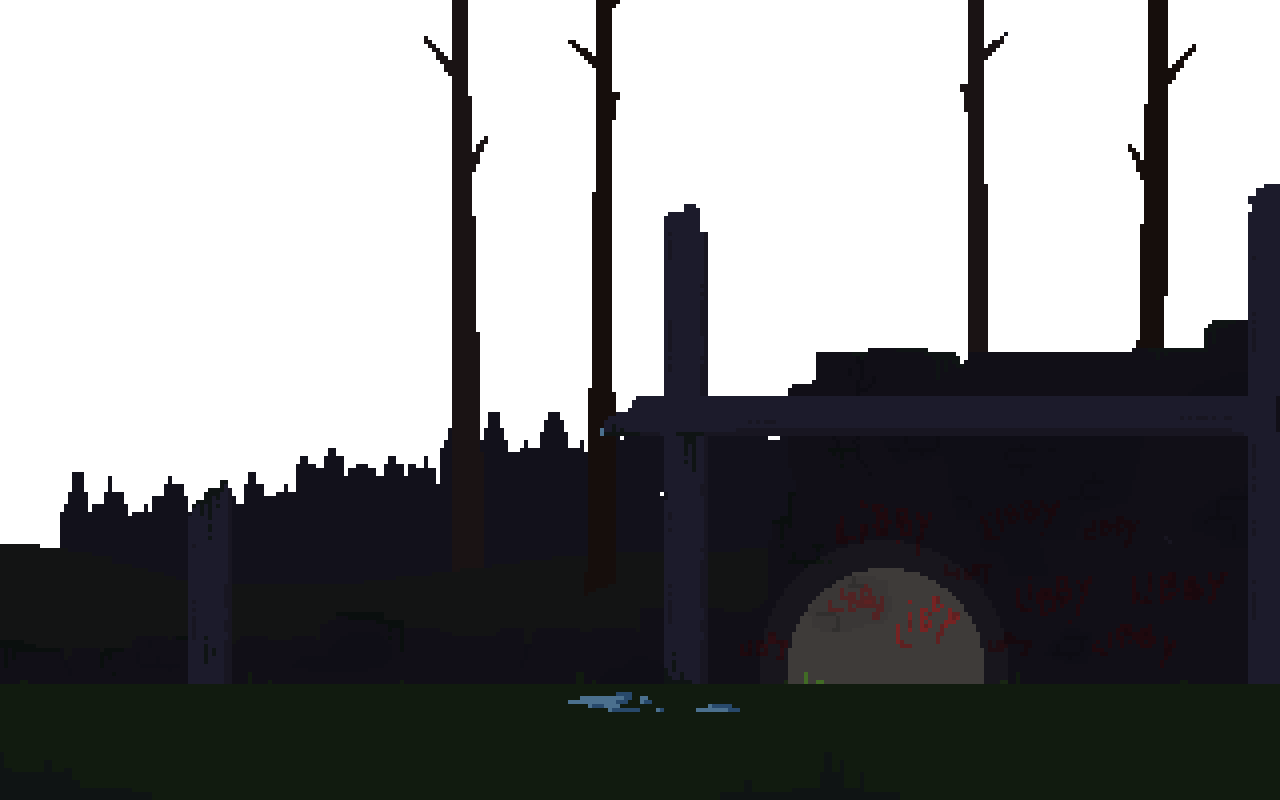
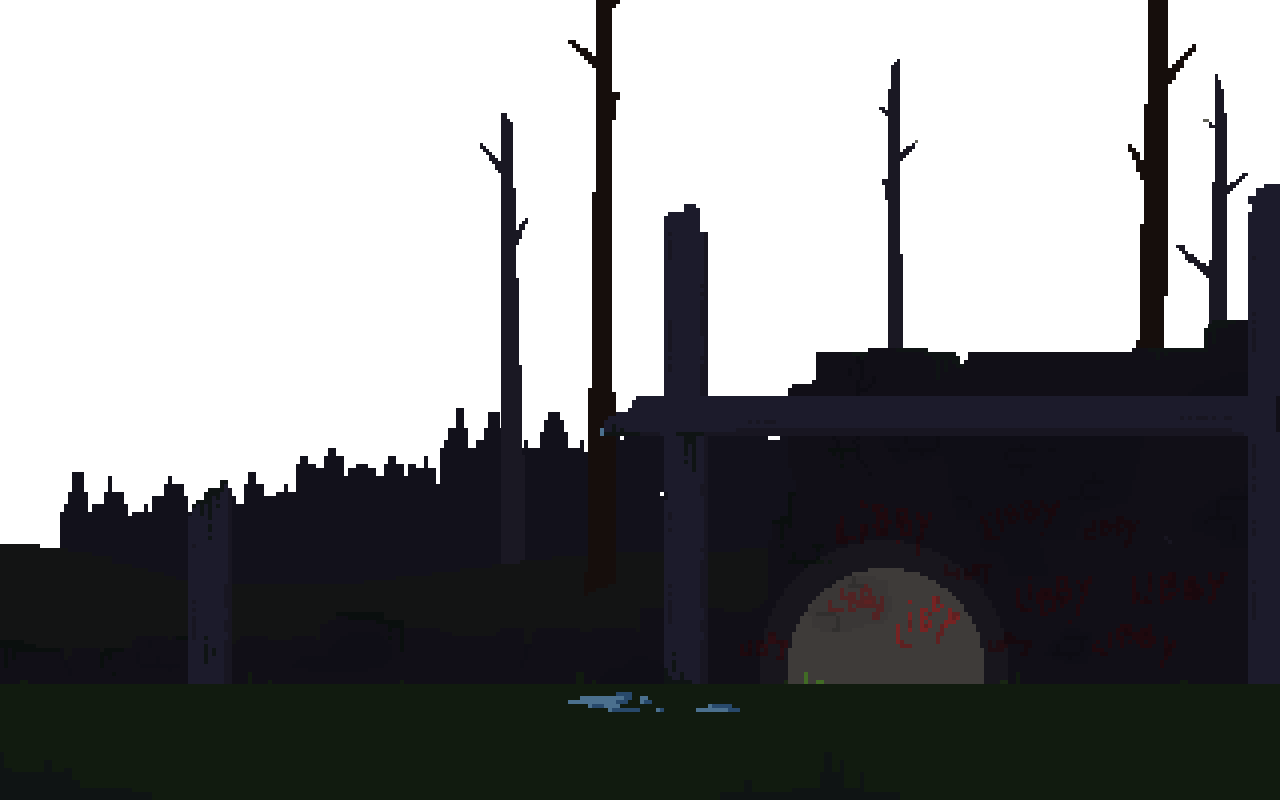
add parallax to building scene

diff --git a/src/phaser/scenes/BuildingScene.ts b/src/phaser/scenes/BuildingScene.ts
@@ -234,11 +234,15 @@ class BuildingScene extends BaseScene {
   private boxes: Boxes
   private metalBox: MetalBox
   private pit: Firepit
+  private trees: Phaser.GameObjects.TileSprite
+  private hills: Phaser.GameObjects.TileSprite
+  private grassForeground: Phaser.GameObjects.TileSprite
   private upstairsFloor: Physics.Arcade.Sprite
   private floor: Physics.Arcade.Sprite
   private platforms: Physics.Arcade.StaticGroup
   private antennasSprites: Physics.Arcade.Group
   private dropAnimation: Phaser.Tweens.Tween
+  private forest: Phaser.GameObjects.Image
   private nightBackground: Phaser.GameObjects.Image
   private nightForeground: Phaser.GameObjects.Image
   private wood: Physics.Arcade.Image
@@ -285,6 +289,8 @@ class BuildingScene extends BaseScene {
     this.loadImage(IMAGES.BUILDING_BG_2)
     this.loadImage(IMAGES.BUILDING_NIGHT_BG)
     this.loadImage(IMAGES.BUILDING_NIGHT_BG_2)
+    this.loadImage(IMAGES.BUILDING_HILLS)
+    this.loadImage(IMAGES.BUILDING_FOREST)
     this.loadImage(IMAGES.FLOOR)
     this.loadImage(IMAGES.WOOD)
     this.loadImage(IMAGES.CLOTH)
@@ -358,6 +364,21 @@ class BuildingScene extends BaseScene {
     ])
 
     this.antennasSprites.playAnimation('antennaBlink')
+
+    this.forest = this.add
+      .image(0, 0, IMAGES.BUILDING_FOREST.KEY)
+      .setOrigin(0, 0)
+      .setScrollFactor(0.95, 0.98)
+
+    this.trees = this.add
+      .tileSprite(300, 75, 820, 720, IMAGES.TREES.KEY)
+      .setOrigin(0, 0)
+      .setScrollFactor(0.9, 0.94)
+
+    this.hills = this.add
+      .tileSprite(0, -10, 820, 720, IMAGES.BUILDING_HILLS.KEY)
+      .setOrigin(0, 0)
+      .setScrollFactor(0.85, 0.9)
 
     this.add.image(0, 0, IMAGES.BUILDING_BG_2.KEY).setOrigin(0)
     this.nightForeground = this.add
@@ -492,6 +513,11 @@ class BuildingScene extends BaseScene {
     this.physics.add.collider(this.platforms, this.buggy)
     this.buggy.setInteractive()
 
+    this.grassForeground = this.add
+      .tileSprite(0, 755, 820, 96, IMAGES.GRASS_FOREGROUND.KEY)
+      .setOrigin(0, 0)
+      .setScrollFactor(0, 1)
+
     this.setInteractions([
       'bucket',
       'ladder',
@@ -518,11 +544,11 @@ class BuildingScene extends BaseScene {
     await timer(this, 700)
     await cameraPan(this, this.survivor.x, this.survivor.y, 4000)
     this.cameras.main.startFollow(this.survivor)
-
     this.initCutscene()
   }
 
   public update() {
+    this.grassForeground.tilePositionX = this.cameras.main.scrollX * 1.2
     this.physics.world.gravity.y = 800
     this.survivor.update()
   }
@@ -902,7 +928,17 @@ class BuildingScene extends BaseScene {
   }
 
   private setNightMode() {
-    this.clouds.destroy()
+    Phaser.Actions.Call(
+      this.clouds.getChildren(),
+      (cloud: Phaser.GameObjects.Sprite) => {
+        this.clouds.killAndHide(cloud)
+      },
+      this
+    )
+    this.forest.destroy()
+    this.trees.destroy()
+    this.hills.destroy()
+    this.grassForeground.destroy()
     this.nightBackground.setAlpha(1, 1, 1, 1)
     this.nightForeground.setAlpha(1, 1, 1, 1)
     this.antennasSprites.playAnimation('antennaNightBlink')

diff --git a/src/phaser/constants.ts b/src/phaser/constants.ts
@@ -78,6 +78,14 @@ export const IMAGES = {
     KEY: 'FLOOR',
     FILE: 'common/floor.png',
   },
+  GRASS_FOREGROUND: {
+    KEY: 'GRASS_FOREGROUND',
+    FILE: 'common/grass-foreground.png',
+  },
+  TREES: {
+    KEY: 'TREES',
+    FILE: 'road/trees.png',
+  },
 
   BROKEN_GUARDRAIL: {
     KEY: 'BROKEN_GUARDRAIL',
@@ -86,10 +94,6 @@ export const IMAGES = {
   FOREST: {
     KEY: 'FOREST',
     FILE: 'road/forest.png',
-  },
-  GRASS_FOREGROUND: {
-    KEY: 'GRASS_FOREGROUND',
-    FILE: 'road/grass-foreground.png',
   },
   GRASS: {
     KEY: 'GRASS',
@@ -123,10 +127,6 @@ export const IMAGES = {
     KEY: 'TREES_HILLS',
     FILE: 'road/trees-hills.png',
   },
-  TREES: {
-    KEY: 'TREES',
-    FILE: 'road/trees.png',
-  },
   BUILDING_BG: {
     KEY: 'BUILDING_BG',
     FILE: 'building/building.png',
@@ -144,6 +144,14 @@ export const IMAGES = {
     FILE: 'building/building-night-layer2.png',
   },
 
+  BUILDING_HILLS: {
+    KEY: 'BUILDING_HILLS',
+    FILE: 'building/hills.png',
+  },
+  BUILDING_FOREST: {
+    KEY: 'BUILDING_FOREST',
+    FILE: 'building/forest.png',
+  },
   WOOD: {
     KEY: 'WOOD',
     FILE: 'building/wood.png',

diff --git a/src/phaser/scenes/BaseScene.ts b/src/phaser/scenes/BaseScene.ts
@@ -1,7 +1,7 @@
 import { DialogService, createDialogBox } from '../utils/dialog'
 import { Survivor } from '../sprites/Survivor'
 import { randomLine } from '../default-lines'
-import { SPRITES, AUDIO } from '../constants'
+import { IMAGES, SPRITES, AUDIO } from '../constants'
 
 interface Asset {
   KEY: string
@@ -68,9 +68,13 @@ export class BaseScene extends Phaser.Scene {
   }
 
   public commonPreload() {
+    this.loadAudio(AUDIO.WALK)
+
+    this.loadImage(IMAGES.GRASS_FOREGROUND)
+    this.loadImage(IMAGES.TREES)
+
     this.loadSprite(SPRITES.CLOUDS)
     this.loadSprite(SPRITES.SURVIVOR)
-    this.loadAudio(AUDIO.WALK)
   }
 
   public initScene() {

diff --git a/src/phaser/scenes/RoadScene.ts b/src/phaser/scenes/RoadScene.ts
@@ -89,7 +89,6 @@ class RoadScene extends BaseScene {
     this.loadImage(IMAGES.FLOOR)
     this.loadImage(IMAGES.BROKEN_GUARDRAIL)
     this.loadImage(IMAGES.FOREST)
-    this.loadImage(IMAGES.GRASS_FOREGROUND)
     this.loadImage(IMAGES.GRASS)
     this.loadImage(IMAGES.GUARDRAIL)
     this.loadImage(IMAGES.MOUNTAINS)
@@ -98,7 +97,6 @@ class RoadScene extends BaseScene {
     this.loadImage(IMAGES.ROAD)
     this.loadImage(IMAGES.SKY)
     this.loadImage(IMAGES.TREES_HILLS)
-    this.loadImage(IMAGES.TREES)
 
     // Preload sprites
     this.loadSprite(SPRITES.BUGGY)
